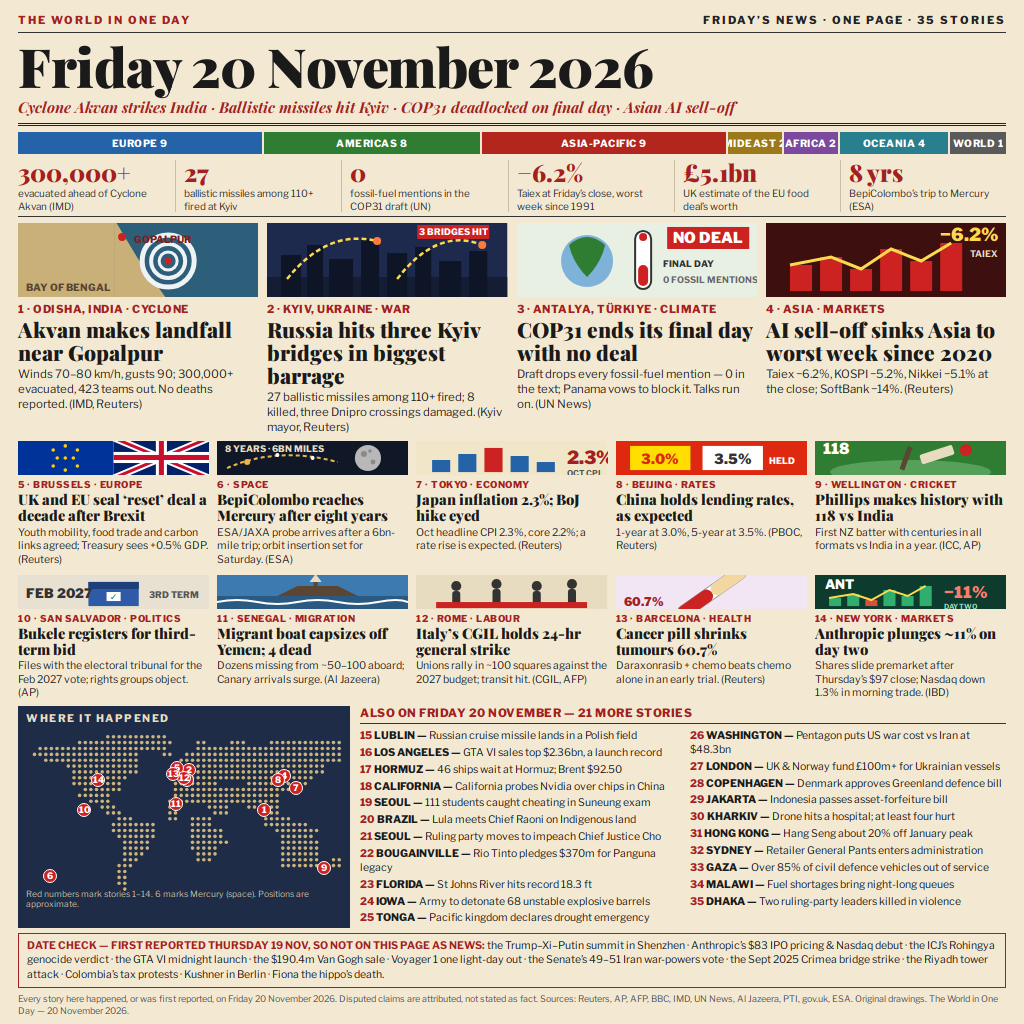
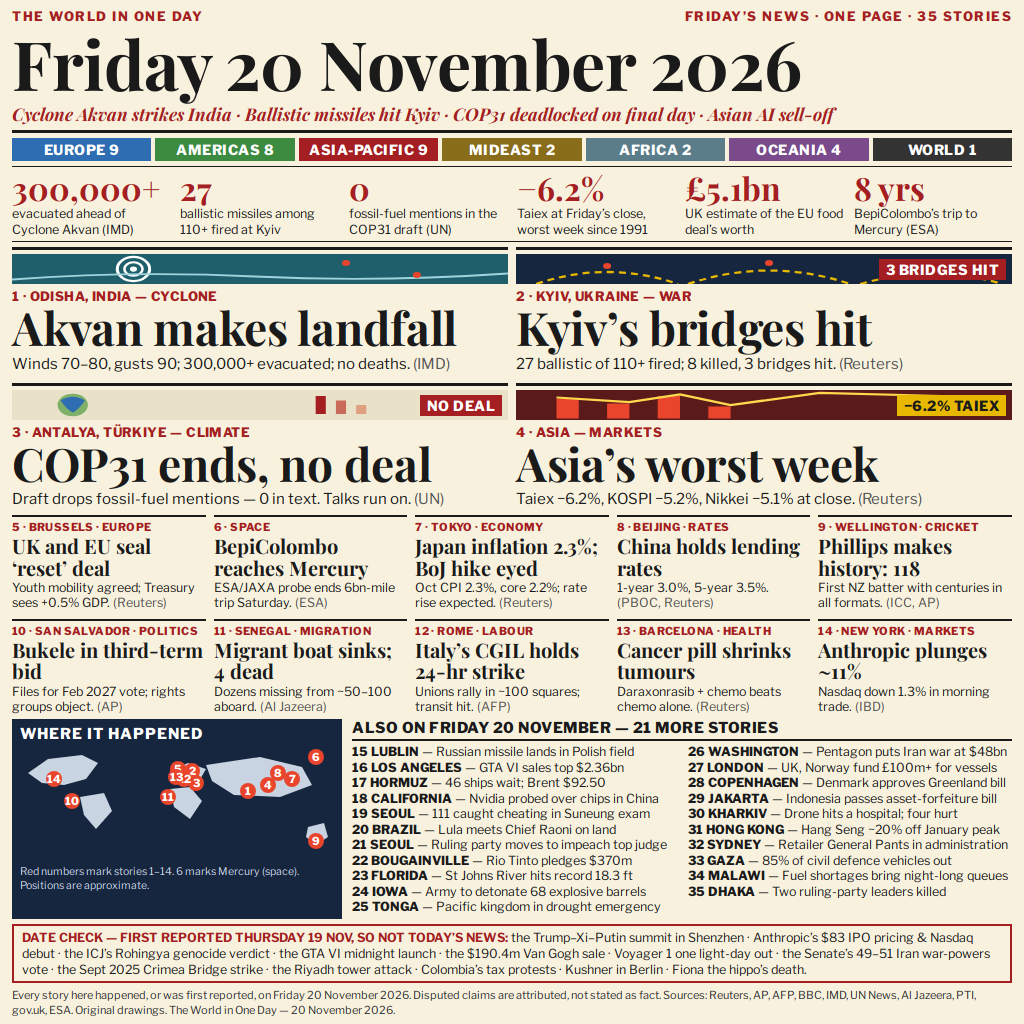
v2: legibility-first rebuild — bigger type at 300px

diff --git a/main.ts b/main.ts
@@ -1,14 +1,9 @@
-// news-image-20261120 — "The World in One Day", Friday 20 November 2026.
-// The entry image is pre-rendered (HTML/CSS + Playwright) and ships as
-// entry.png in this repository. This program only copies it to the output
-// directory, so both graded runs write identical bytes. No network, no
-// randomness, no dependencies beyond the Node standard library.
 import { copyFileSync, mkdirSync } from "node:fs";
 import { dirname, join } from "node:path";
 import { fileURLToPath } from "node:url";
 
-const here = dirname(fileURLToPath(import.meta.url));
+const dir = dirname(fileURLToPath(import.meta.url));
 const outDir = process.env.MAKEFUN_OUTPUT_DIR || "/output";
-
 mkdirSync(outDir, { recursive: true });
-copyFileSync(join(here, "entry.png"), join(outDir, "entry.png"));
+copyFileSync(join(dir, "entry.png"), join(outDir, "entry.png"));
+console.log("wrote entry.png");
